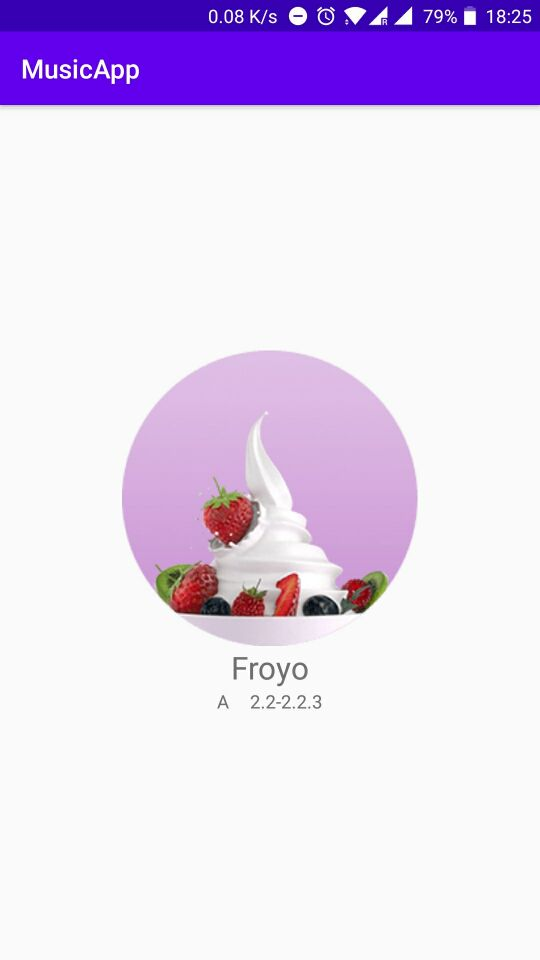
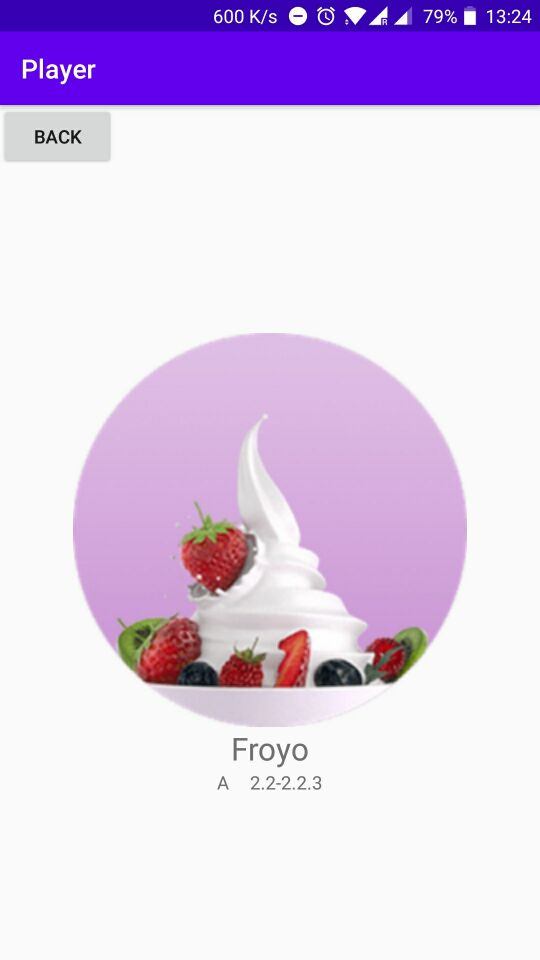
2020-06-12

diff --git a/MusicApp/app/src/main/java/com/example/android/musicapp/MusicAdapter.java b/MusicApp/app/src/main/java/com/example/android/musicapp/MusicAdapter.java
@@ -1,11 +1,16 @@
 package com.example.android.musicapp;
+
 import android.app.Activity;
+import android.content.Intent;
 import android.view.LayoutInflater;
 import android.view.View;
 import android.view.ViewGroup;
 import android.widget.ArrayAdapter;
+import android.widget.Button;
 import android.widget.ImageView;
 import android.widget.TextView;
+import android.widget.Toast;
+
 import java.util.ArrayList;
 
 public class MusicAdapter extends ArrayAdapter<MusicItem>{
@@ -25,7 +30,6 @@ public class MusicAdapter extends ArrayAdapter<MusicItem>{
             listItemView = LayoutInflater.from(getContext()).inflate(
                     R.layout.music_item, parent, false);
         }
-
         // Get the MusicItem object located at this position in the list
         MusicItem currentMusic = getItem(position);
 
@@ -42,6 +46,24 @@ public class MusicAdapter extends ArrayAdapter<MusicItem>{
         //set music name
         TextView AlbumNameView = (TextView) listItemView.findViewById(R.id.album_name);
         AlbumNameView.setText(currentMusic.getAlbumName());
+
+        //set play button
+        Button playButton = listItemView.findViewById(R.id.play_button);
+        final View finalListItemView = listItemView;
+        final View finalListItemView1 = listItemView;
+        playButton.setOnClickListener(new View.OnClickListener() {
+            @Override
+            public void onClick(View v) {
+                Intent intent = new Intent(v.getContext(), Player.class);
+                TextView musicName = (TextView) finalListItemView.findViewById(R.id.music_name);
+                intent.putExtra( "musicName",  musicName.getText().toString());
+                TextView artistName = (TextView) finalListItemView1.findViewById(R.id.artist_name);
+                intent.putExtra( "artistName",  artistName.getText().toString());
+                TextView albumName = (TextView) finalListItemView.findViewById(R.id.album_name);
+                intent.putExtra( "albumName",  albumName.getText().toString());
+                v.getContext().startActivity(intent);
+            }
+        });
 
         // Return the whole list item layout (containing 3 TextViews and an ImageView)
         // so that it can be shown in the ListView

diff --git a/MusicApp/app/src/main/java/com/example/android/musicapp/MainActivity.java b/MusicApp/app/src/main/java/com/example/android/musicapp/MainActivity.java
@@ -5,9 +5,11 @@ import androidx.appcompat.app.AppCompatActivity;
 import android.content.Intent;
 import android.os.Bundle;
 import android.view.View;
+import android.widget.Button;
 import android.widget.ImageView;
 import android.widget.ListView;
 import android.widget.TextView;
+import android.widget.Toast;
 
 import java.util.ArrayList;
 
@@ -24,8 +26,8 @@ public class MainActivity extends AppCompatActivity {
         MusicItems.add(new MusicItem("Froyo", "A", "2.2-2.2.3", R.drawable.froyo));
         MusicItems.add(new MusicItem("GingerBread", "C", "2.3-2.3.7", R.drawable.gingerbread));
         MusicItems.add(new MusicItem("Honeycomb", "D", "3.0-3.2.6", R.drawable.honeycomb));
-        MusicItems.add(new MusicItem("Ice Cream Sandwich", "A", "4.0-4.0.4", R.drawable.icecream));
-        MusicItems.add(new MusicItem("Jelly Bean", "B", "4.1-4.3.1", R.drawable.jellybean));
+        MusicItems.add(new MusicItem("IceCreamSandwich", "A", "4.0-4.0.4", R.drawable.icecreamsandwich));
+        MusicItems.add(new MusicItem("JellyBean", "B", "4.1-4.3.1", R.drawable.jellybean));
         MusicItems.add(new MusicItem("KitKat", "B", "4.4-4.4.4", R.drawable.kitkat));
         MusicItems.add(new MusicItem("Lollipop", "S", "5.0-5.1.1", R.drawable.lollipop));
         MusicItems.add(new MusicItem("Marshmallow", "S", "6.0-6.0.1", R.drawable.marshmallow));
@@ -39,15 +41,4 @@ public class MainActivity extends AppCompatActivity {
         listView.setAdapter(adapter);
     }
 
-    public void playMusic(View view){
-        Intent intent = new Intent(this, Player.class);
-        TextView musicName = (TextView) view.findViewById(R.id.music_name);
-        intent.putExtra( "musicName",  musicName.getText().toString());
-        TextView artistName = (TextView) view.findViewById(R.id.artist_name);
-        intent.putExtra( "artistName",  artistName.getText().toString());
-        TextView albumName = (TextView) view.findViewById(R.id.album_name);
-        intent.putExtra( "albumName",  albumName.getText().toString());
-        startActivity(intent);
-
-    }
 }

diff --git a/MusicApp/app/src/main/java/com/example/android/musicapp/Player.java b/MusicApp/app/src/main/java/com/example/android/musicapp/Player.java
@@ -2,8 +2,11 @@ package com.example.android.musicapp;
 
 import androidx.appcompat.app.AppCompatActivity;
 
+import android.content.Intent;
 import android.content.res.Resources;
 import android.os.Bundle;
+import android.view.View;
+import android.widget.Button;
 import android.widget.ImageView;
 import android.widget.TextView;
 
@@ -37,10 +40,19 @@ public class Player extends AppCompatActivity {
 
         // set variable image source according to the music name
         ImageView musicIconView = findViewById(R.id.music_icon);
-        Resources resources = getResources();
-        final int resourceId = resources.getIdentifier(musicName.toLowerCase(),
-                "drawable", getPackageName());
+        final int resourceId = getResources().getIdentifier("drawable/"
+                + musicName.toLowerCase(), null, getPackageName());
         musicIconView.setImageResource(resourceId);
+
+        // set back button
+        Button back = findViewById(R.id.back_button);
+        back.setOnClickListener(new View.OnClickListener() {
+            @Override
+            public void onClick(View v) {
+                Intent intent = new Intent(v.getContext(), MainActivity.class);
+                v.getContext().startActivity(intent);
+            }
+        });
     }
 
 }

diff --git a/MusicApp/app/src/main/java/com/example/android/musicapp/MusicItem.java b/MusicApp/app/src/main/java/com/example/android/musicapp/MusicItem.java
@@ -12,6 +12,7 @@ public class MusicItem {
         mArtistName = artistName;
         mAlbumName = albumName;
         mImageResourceId = imageResourceId;
+
     }
     public String getMusicName (){
         return mMusicName;

diff --git a/MusicApp/Readme.md b/MusicApp/Readme.md
@@ -1,5 +1,5 @@
 <h1>MusicApp</h1>
-<p>This app contains two activity: music list and player. We first start from a screen with all music. When we click one of the music, we will jump to the corresponding player screen and play the music.</p>
+<p>This app contains two activity: music list and player. We first start from a screen with all songs. When we click "PLAY" button of the song, we will jump to the corresponding player screen and play the music. Then you can also click "BACK" button to jump back to the music list screen.</p>
 <p> In order to protect the copyright of songs, I use android versions to replace songs. Each song contains 4 elements: music cover image, music name, artist name and album name.</p>
 <p> <b>Knowledge including:</b> </p>
 <ul>
@@ -7,6 +7,7 @@
 	<li>Using OnClickListeners to add behavior to views</li>
 	<li>Creating Custom Class to store data</li>
 	<li>Populating a ListView with an ArrayAdapter</li>
+	<li>Providing different image resolutions for different Android devices.</li>
 </ul>
 <p>Todo:</p>
 <p><input type="checkbox">A music store screen for users to add songs to music list</p>
